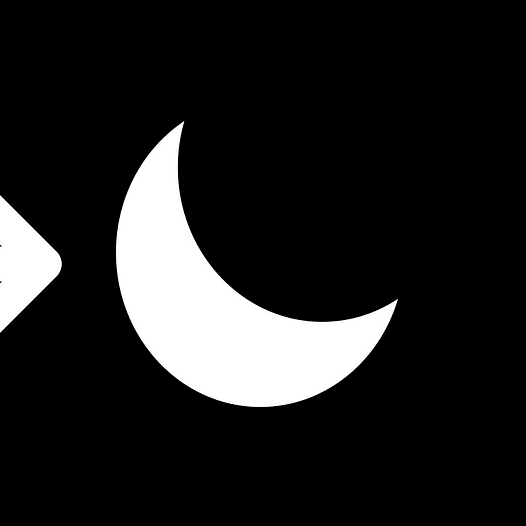
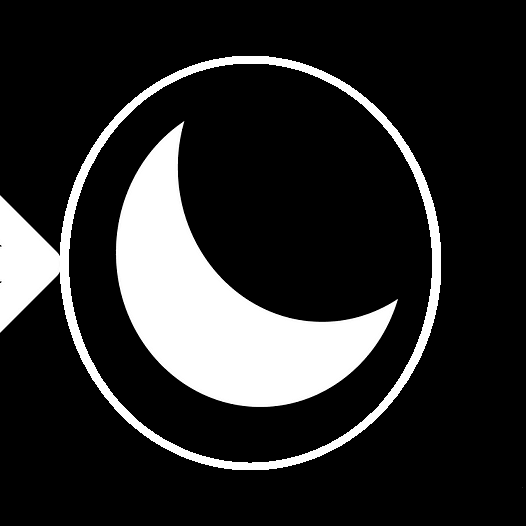
style Theme light

diff --git a/script.js b/script.js
@@ -83,3 +83,19 @@ checkbox.addEventListener('change', function() {
         window.location.href = targetPath;
     }
 });
+
+const themeToggle = document.getElementById('theme-toggle');
+
+// Adiciona um ouvinte de evento para detectar mudanças no estado do switch
+themeToggle.addEventListener('change', function() {
+  // Seleciona o elemento root do documento
+  const root = document.documentElement;
+  
+  // Se o switch estiver marcado, adiciona a classe .light-theme ao root
+  if (this.checked) {
+    root.classList.add('light-theme');
+  } else {
+    // Se o switch não estiver marcado, remove a classe .light-theme do root
+    root.classList.remove('light-theme');
+  }
+});

diff --git a/style.css b/style.css
@@ -15,6 +15,13 @@
   --main-color: #00ffee;
 }
 
+:root.light-theme {
+  --bg-color: #7a7a7a;
+  --second-bg-color: #e7e2e2;
+  --text-color: #333333;
+  --main-color: #00ffee;
+}
+
 html {
   font-size: 65%;
   overflow-x: hidden;
@@ -122,11 +129,15 @@ body {
 }
 
 .switch input:checked + .slider {
-  background-color: #2196f3;
+  background-color: var(--main-color);
 }
 
 .switch input:checked + .slider:before {
   transform: translateX(20px);
+}
+
+.switch input:checked + .slider:after {
+  background-color: var(--text-color); /* Usa a cor do texto como a cor do botão */
 }
 
 .switch img:first-of-type {

diff --git a/index.html b/index.html
@@ -33,10 +33,10 @@
           <img src="src/brasil.png" alt="" /> </label
         ><br />
         <label class="switch">
-          <img class="theme" src="src/lightt.png" height="" alt="" />
+          <img class="theme" src="src/darkk.png" height="" alt="" />
           <input type="checkbox" id="theme-toggle" />
           <span class="slider round"></span>
-          <img class="theme" src="src/darkk.png" alt="" />
+          <img class="theme" src="src/lightt.png" alt="" />
         </label>
       </div>
     </header>
